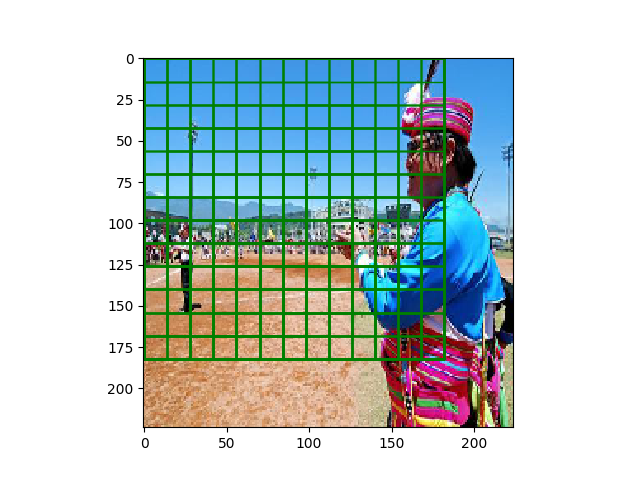
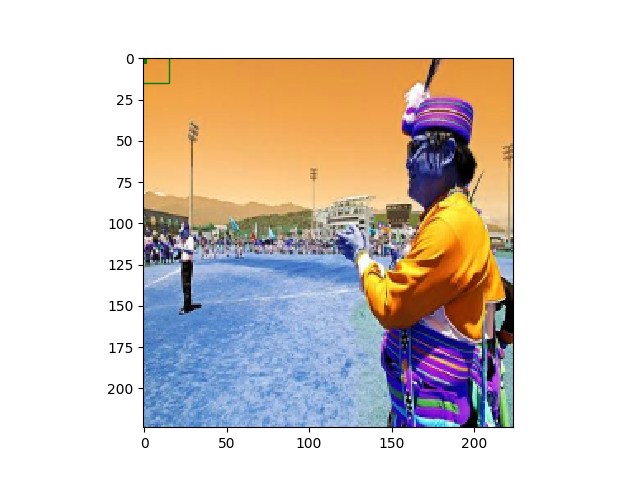
inference

diff --git a/prediction.py b/prediction.py
@@ -22,8 +22,10 @@ img = []
 #     img_ = cv2.imread(os.path.join(sys.argv[1], im))
 #     img_ = cv2.resize(img_, (224, 224))
 #     img.append(img_)
-img = cv2.imread(sys.argv[1])
-img = cv2.resize(img, (224, 224))
+img_ = cv2.imread(sys.argv[1])
+width, height = img_.shape[1:3]
+x_ratio, y_ratio = width/224, height/224
+img = cv2.resize(img_, (224, 224))
 img = np.expand_dims(img, axis=0)
 # im_w, im_h = img_.size()
 # img_shaped = np.array(img)
@@ -45,7 +47,7 @@ with tf.Session(graph=new_graph) as sess:
 
     rpn = sess.run([rpn_cls, rpn_box], feed_dict={image_tensor:img})
     boxes = rpn[1].reshape(rpn[1].shape[0], rpn[1].shape[1]*rpn[1].shape[2], rpn[1].shape[3])
-    nms_box = utils.non_max_suppression_fast(boxes[0])
-    utils.bbox_plot(nms_box)
-    # R = utils.rpn_to_roi(P_rpn[0], P_rpn[1], C, 'tf', overlap_thresh=0.7)
-    print ("test")
+    boxes[0][:,[0, 2]] = boxes[0][:,[0, 2]] * x_ratio
+    boxes[0][:, [1, 3]] = boxes[0][:, [1, 3]] * y_ratio
+    nms_box = utils.non_max_suppression_fast(boxes[0], 0.5)
+    utils.bbox_plot(img_, nms_box)
